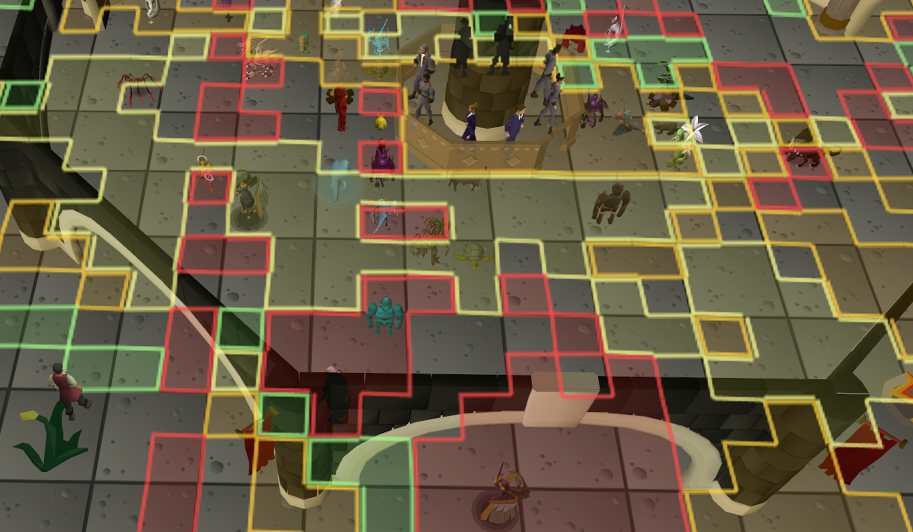
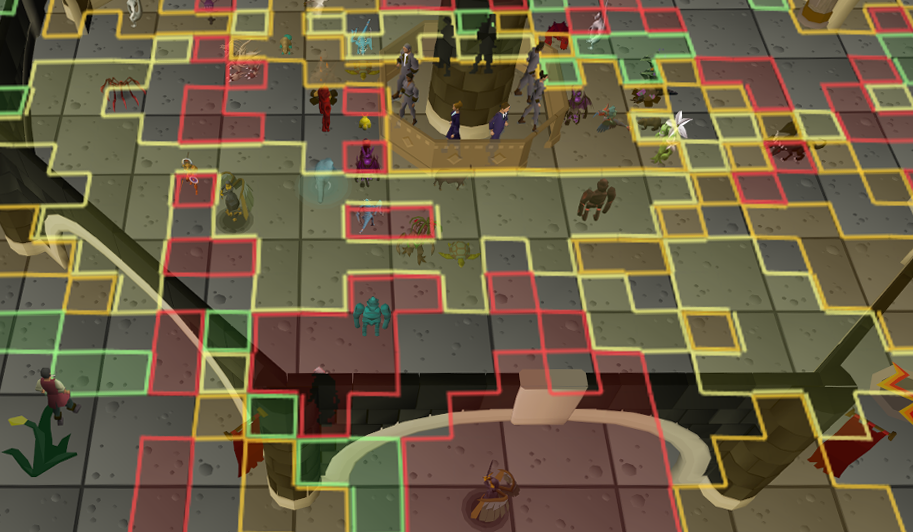
add GE NPC dialog on takeover with toggle, update readme, add turf bark overlay for custom npc dialog. add pngs

diff --git a/src/main/java/com/zezizaza/clanturf/ClanTurfBarkOverlay.java b/src/main/java/com/zezizaza/clanturf/ClanTurfBarkOverlay.java
@@ -28,10 +28,17 @@ import java.awt.Color;
 import java.awt.Dimension;
 import java.awt.FontMetrics;
 import java.awt.Graphics2D;
+import java.awt.Rectangle;
+import java.util.ArrayList;
+import java.util.Comparator;
+import java.util.List;
 import java.util.Map;
 import javax.inject.Inject;
+import net.runelite.api.Client;
 import net.runelite.api.NPC;
+import net.runelite.api.Player;
 import net.runelite.api.Point;
+import net.runelite.api.coords.LocalPoint;
 import net.runelite.client.ui.FontManager;
 import net.runelite.client.ui.overlay.Overlay;
 import net.runelite.client.ui.overlay.OverlayLayer;
@@ -60,11 +67,13 @@ class ClanTurfBarkOverlay extends Overlay
 	private static final Color YELLOW = Color.YELLOW;
 
 	private final ClanTurfPlugin plugin;
+	private final Client client;
 
 	@Inject
-	ClanTurfBarkOverlay(ClanTurfPlugin plugin)
+	ClanTurfBarkOverlay(ClanTurfPlugin plugin, Client client)
 	{
 		this.plugin = plugin;
+		this.client = client;
 		setPosition(OverlayPosition.DYNAMIC);
 		setLayer(OverlayLayer.ABOVE_SCENE);
 	}
@@ -82,10 +91,17 @@ class ClanTurfBarkOverlay extends Overlay
 		long duration = plugin.getBarkDurationMs();
 		Color base = plugin.getBarkColor();
 		String clan = plugin.getBarkClan();
-		int zOffset = TEXT_Z_OFFSET;
 		g.setFont(FontManager.getRunescapeBoldFont().deriveFont(TEXT_SIZE));
 		FontMetrics fm = g.getFontMetrics();
+		int lineH = fm.getHeight();
+		int ascent = fm.getAscent();
 
+		Player local = client.getLocalPlayer();
+		LocalPoint me = local == null ? null : local.getLocalLocation();
+
+		// Phase 1: collect visible barks with a stable depth key (distance to the player). Sorting by
+		// depth - instead of the map's arbitrary order - keeps the stacking from reshuffling every frame.
+		List<Item> items = new ArrayList<>();
 		for (Map.Entry<NPC, ClanTurfPlugin.Bark> e : barks.entrySet())
 		{
 			NPC npc = e.getKey();
@@ -100,36 +116,90 @@ class ClanTurfBarkOverlay extends Overlay
 			{
 				continue;
 			}
-			long remaining = duration - life;
-			float alpha = remaining >= FADE_MS ? 1f : Math.max(0f, (float) remaining / FADE_MS);
-			int a = Math.round(255 * alpha);
-			Color plain = new Color(YELLOW.getRed(), YELLOW.getGreen(), YELLOW.getBlue(), a);
-			Color clanColor = new Color(base.getRed(), base.getGreen(), base.getBlue(), a);
-			Color shadow = new Color(0, 0, 0, Math.round(180 * alpha));
-
 			String text = bark.text;
-			boolean[] clanMask = clanMask(text, clan);
-			Point anchor = npc.getCanvasTextLocation(g, text, npc.getLogicalHeight() + zOffset);
+			Point anchor = npc.getCanvasTextLocation(g, text, npc.getLogicalHeight() + TEXT_Z_OFFSET);
 			if (anchor == null)
 			{
 				continue;
 			}
-			// getCanvasTextLocation centers the string on the NPC, so anchor.x is the left edge.
-			int x = anchor.getX();
-			int y = anchor.getY();
-			for (int i = 0; i < text.length(); i++)
+			long remaining = duration - life;
+			float alpha = remaining >= FADE_MS ? 1f : Math.max(0f, (float) remaining / FADE_MS);
+			LocalPoint lp = npc.getLocalLocation();
+			int dist = (me != null && lp != null) ? lp.distanceTo(me) : Integer.MAX_VALUE;
+			items.add(new Item(text, anchor.getX(), anchor.getY(), alpha, dist, clanMask(text, clan)));
+		}
+		// Nearest first: the front NPC keeps its natural height, farther ones get lifted above it.
+		items.sort(Comparator.comparingInt(it -> it.dist));
+
+		// Phase 2: lift each line above any nearer one it would overlap, so clustered NPCs stack.
+		List<Rectangle> boxes = new ArrayList<>();
+		for (Item it : items)
+		{
+			int width = fm.stringWidth(it.text);
+			Rectangle box = new Rectangle(it.x - 2, it.y - ascent, width + 4, lineH);
+			int guard = 0;
+			boolean moved = true;
+			while (moved && guard++ < 16)
 			{
-				String ch = String.valueOf(text.charAt(i));
+				moved = false;
+				for (Rectangle b : boxes)
+				{
+					if (box.intersects(b))
+					{
+						box.y -= lineH;
+						it.y -= lineH;
+						moved = true;
+						break;
+					}
+				}
+			}
+			boxes.add(box);
+		}
+
+		// Phase 3: draw far-to-near so the nearest NPC's line lands on top. Yellow with the clan name in
+		// the clan color, plus the wave and a shadow.
+		for (int idx = items.size() - 1; idx >= 0; idx--)
+		{
+			Item it = items.get(idx);
+			int a = Math.round(255 * it.alpha);
+			Color plain = new Color(YELLOW.getRed(), YELLOW.getGreen(), YELLOW.getBlue(), a);
+			Color clanColor = new Color(base.getRed(), base.getGreen(), base.getBlue(), a);
+			Color shadow = new Color(0, 0, 0, Math.round(180 * it.alpha));
+			int x = it.x;
+			for (int i = 0; i < it.text.length(); i++)
+			{
+				String ch = String.valueOf(it.text.charAt(i));
 				int dy = (int) Math.round(
 						Math.sin(now * WAVE_SPEED + i * WAVE_SPACING) * WAVE_AMPLITUDE);
 				g.setColor(shadow);
-				g.drawString(ch, x + 1, y + dy + 1);
-				g.setColor(clanMask[i] ? clanColor : plain);
-				g.drawString(ch, x, y + dy);
+				g.drawString(ch, x + 1, it.y + dy + 1);
+				g.setColor(it.mask[i] ? clanColor : plain);
+				g.drawString(ch, x, it.y + dy);
 				x += fm.stringWidth(ch);
 			}
 		}
 		return null;
+	}
+
+	/** A bark resolved to a screen position for this frame; {@code y} is adjusted by overlap-stacking. */
+	private static final class Item
+	{
+		private final String text;
+		private final int x;
+		private int y;
+		private final float alpha;
+		private final int dist;
+		private final boolean[] mask;
+
+		private Item(String text, int x, int y, float alpha, int dist, boolean[] mask)
+		{
+			this.text = text;
+			this.x = x;
+			this.y = y;
+			this.alpha = alpha;
+			this.dist = dist;
+			this.mask = mask;
+		}
 	}
 
 	/** Marks which characters of {@code text} fall inside an occurrence of the clan name, so those are

diff --git a/README.md b/README.md
@@ -22,7 +22,9 @@ When a clan takes the GE lead, the boundary rises into a colored wall before set
 
 ## The crowd reacts
 
-Take the GE while you're standing in it and the whole cast of Grand Exchange NPCs calls it out overhead, each in character. Brugsen Bursen pulls rank as director, Bob Barter talks herbs, the Emblem Trader mutters something ominous, the recruiters cheer for their god, and the clan-portal clerk - a fan of every clan - applauds the win. Each NPC draws at random from its own pool of lines, rendered in the game's overhead yellow with your clan's name picked out in its color. The crowd announces in a stagger rather than all at once, it only fires on an ownership flip, and nothing is ever posted to the chat box. Toggle it with **NPC takeover text**.
+Take the GE while you're standing in it and the whole cast of Grand Exchange NPCs calls it out overhead, each with lines that fit their character. The chatter appears in the game's overhead yellow with your clan's name picked out in its color, announced in a stagger rather than all at once. It only fires on an ownership flip, and nothing is ever posted to the chat box. Toggle it with **NPC takeover text**.
+
+![NPC takeover text](images/npcbark.png)
 
 ## Pre-claimed pockets
 
